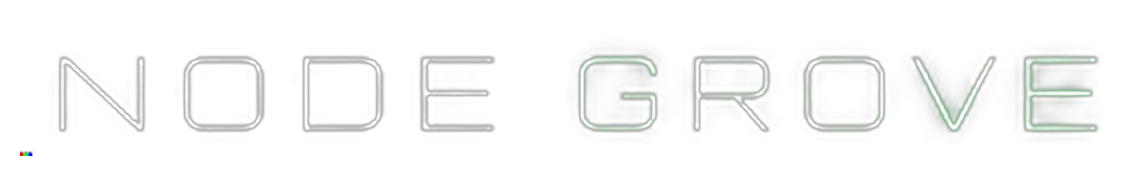
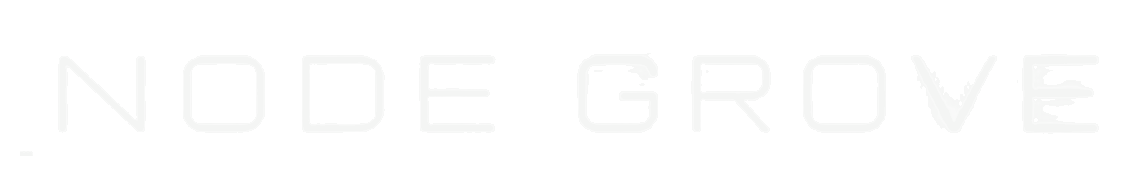
NODE GROVE 타이틀 크기·밝기를 콜렉티브와 맞춘다.

diff --git a/app/globals.css b/app/globals.css
@@ -1117,20 +1117,13 @@ p { margin: 0; }
 .cyp-grove-title-img,
 .cyp-collective-title-img {
   display: block;
+  width: min(92vw, 520px);
   height: auto;
   margin: 0 auto;
   background: transparent;
   pointer-events: none;
   user-select: none;
   -webkit-user-drag: none;
-}
-
-.cyp-grove-title-img {
-  width: min(88vw, 480px);
-}
-
-.cyp-collective-title-img {
-  width: min(92vw, 520px);
 }
 
 .cyp-display-line {
@@ -1883,9 +1876,7 @@ p { margin: 0; }
   .cyp-sky-kicker {
     margin-bottom: 12px;
   }
-  .cyp-grove-title-img {
-    width: min(90vw, 340px);
-  }
+  .cyp-grove-title-img,
   .cyp-collective-title-img {
     width: min(92vw, 360px);
   }

diff --git a/ai/작업메모.md b/ai/작업메모.md
@@ -1,5 +1,7 @@
 # popup-node 작업 메모
 
+2026-09-27. NODE GROVE 타이틀을 콜렉티브와 같은 width(min 92vw/520·모바일 360)·밝기로 맞춤(PNG 알파 올림, 콜렉티브는 안 흐림).
+
 2026-09-27. NODE GROVE도 public/node-grove-title.png(검정 투명). 헤더 위·키커·제목 여백. 구 안 캡슐(.example 충돌) 제거·글자 축소·틱커는 구 밖 두 줄만.
 
 2026-09-27. 콜렉티브 큰 제목만 public/collective-imagination-title.png(검정 투명) img로 씀. NODE GROVE·별·줄·구·틱커·hex는 그대로.
